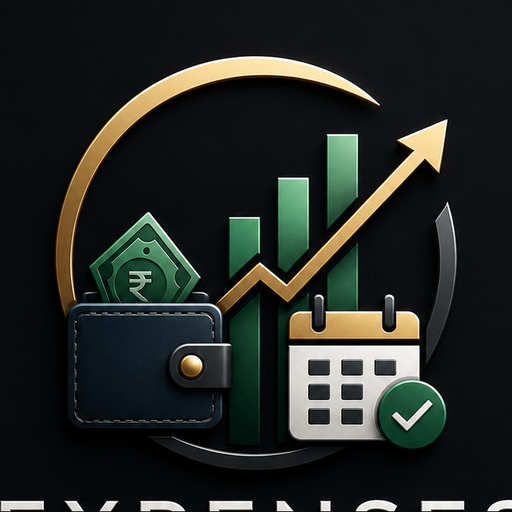
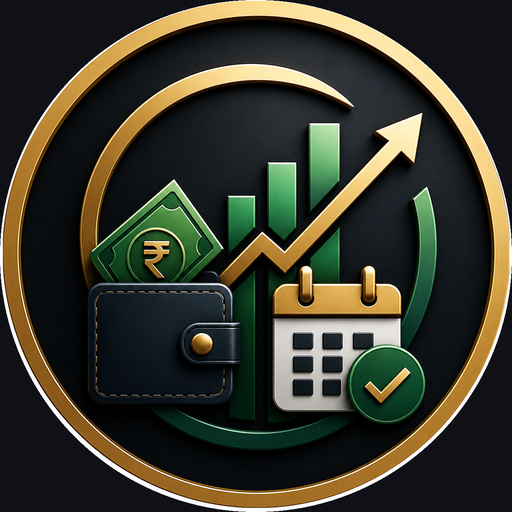
Add files via upload

diff --git a/index.html b/index.html
@@ -585,6 +585,8 @@ h1,h2,h3,.tab-label,.synebody,.card-title,.form-label,.fl-label{font-family:'DM 
       <input type="date" id="debt-due-date" class="date-inp" style="padding-left:14px;font-size:15px;"/>
       <div class="form-label">Annual Interest Rate % <span style="color:var(--muted);font-weight:400">(optional)</span></div>
       <input type="number" step="0.1" class="ti" id="debt-interest" placeholder="e.g. 12" style="width:100%;margin-bottom:13px"/>
+      <div class="form-label">Repay in Installments? <span style="color:var(--muted);font-weight:400">(optional)</span></div>
+      <input type="number" class="ti" id="debt-installments" placeholder="e.g. 12 (number of installments)" style="width:100%;margin-bottom:13px"/>
       <button class="save-btn" onclick="saveDebt()">Save Entry</button>
     </div>
     <div class="card">
@@ -2237,16 +2239,18 @@ function saveDebt(){
   const amt=parseFloat(document.getElementById('debt-amount').value);
   const dueDate=document.getElementById('debt-due-date').value;
   const interestRate=parseFloat(document.getElementById('debt-interest').value)||0;
+  const installments=parseInt(document.getElementById('debt-installments').value)||0;
   if(!name){showToast('Enter a name','#ffb300');return;}
   if(!amt||amt<=0){showToast('Enter a valid amount','#ffb300');return;}
   if(!selDebtType){showToast('Select type','#ffb300');return;}
   const debts=getDebts();
-  debts.push({name,amount:amt,type:selDebtType,ts:Date.now(),cleared:false,dueDate:dueDate||null,interestRate:interestRate||null});
+  debts.push({name,amount:amt,type:selDebtType,ts:Date.now(),cleared:false,dueDate:dueDate||null,interestRate:interestRate||null,installments:installments||null});
   saveDebts(debts);
   document.getElementById('debt-name').value='';
   document.getElementById('debt-amount').value='';
   document.getElementById('debt-due-date').value='';
   document.getElementById('debt-interest').value='';
+  document.getElementById('debt-installments').value='';
   selDebtType=null;
   document.getElementById('dtype-debt').classList.remove('sel');
   document.getElementById('dtype-profit').classList.remove('sel');
@@ -2311,6 +2315,14 @@ function renderDebtPage(){
     }
     // Repayment history
     const repayLog=(d.repayLog||[]).map(r=>`<div style="font-size:11px;color:var(--muted);margin-top:2px">↩ Returned ${fmt(r.amount)} on ${r.date}</div>`).join('');
+    // Installment plan progress
+    let installmentLabel='';
+    if(d.installments&&d.installments>1){
+      const paidCount=(d.repayLog||[]).length;
+      const perInstallment=d.amount/d.installments;
+      const doneCount=Math.min(paidCount,d.installments);
+      installmentLabel=`<div style="font-size:10px;color:var(--accent);margin-top:2px">📋 Installment ${doneCount} of ${d.installments} (${fmt(perInstallment)}/installment)</div>`;
+    }
     const repaidBadge=repaid>0&&!fullyCleared?`<span class="remaining-badge">Remaining: ${fmt(remaining)}</span>`:'';
     const partialControl=!fullyCleared?`<div class="repay-row">
       <input class="repay-inp" type="number" inputmode="decimal" placeholder="Amount returned" id="repay-inp-${oi}"/>
@@ -2322,6 +2334,7 @@ function renderDebtPage(){
         <div class="entry-cat">${d.name} ${repaidBadge}</div>
         <div class="entry-meta"><span class="debt-entry-badge ${badgeClass}">${label}</span> ${dueLabel}</div>
         ${interestLabel}
+        ${installmentLabel}
         ${repayLog}
         ${partialControl}
       </div>
@@ -2538,7 +2551,15 @@ function renderMembers(){
   const users=getUsers();
   const entries=Object.entries(users);
   const nonAdminCount=entries.filter(([u,p])=>!p.isAdmin).length;
-  summaryEl.textContent=`${entries.length} total account${entries.length===1?'':'s'} · ${nonAdminCount} member${nonAdminCount===1?'':'s'} (excl. admin)`;
+  let totalIncomeAll=0,totalExpenseAll=0;
+  entries.forEach(([u])=>{
+    try{
+      const d=JSON.parse(localStorage.getItem('exp_'+u+'_data')||'[]');
+      totalIncomeAll+=d.filter(e=>e.type==='income').reduce((s,e)=>s+e.amount,0);
+      totalExpenseAll+=d.filter(e=>e.type!=='income').reduce((s,e)=>s+e.amount,0);
+    }catch(e){}
+  });
+  summaryEl.innerHTML=`${entries.length} total account${entries.length===1?'':'s'} · ${nonAdminCount} member${nonAdminCount===1?'':'s'} (excl. admin)<br><span style="color:var(--green)">${fmt(totalIncomeAll)} income</span> · <span style="color:var(--red)">${fmt(totalExpenseAll)} expenses</span> combined across all accounts`;
   if(!entries.length){listEl.innerHTML='<div style="color:var(--muted);font-size:13px;padding:6px 0">No members yet.</div>';return;}
   const sorted=entries.sort((a,b)=>(b[1].createdAt||0)-(a[1].createdAt||0));
   listEl.innerHTML=sorted.map(([u,p])=>{

diff --git a/EMAILJS_SETUP.md b/EMAILJS_SETUP.md
@@ -15,44 +15,123 @@ Go to https://www.emailjs.com → Sign Up (free plan is fine).
 - Copy the **Service ID** (looks like `service_xxxxxxx`)
 
 ## 3. Create two email templates
-Dashboard → **Email Templates** → **Create New Template**, twice:
+Dashboard → **Email Templates** → **Create New Template**, twice.
+
+For each one, switch the body editor from **Design Editor** to **Code Editor** (a `</>` icon
+near the top of the editor) and paste the raw HTML below instead of typing plain text. This
+gives you a real branded email — logo, dark card, colored numbers — instead of plain text.
+The app now automatically sends a `{{logo_url}}` variable (an absolute link to `icon-512.png`
+on wherever you've deployed the app), so the logo will appear once you've deployed it (e.g. to
+GitHub Pages); it won't resolve while you're just opening `index.html` from your own computer.
 
 ### Template A — OTP (password reset)
-Subject: `Your ProjectVault OTP`
-Body (use these exact variable names so the app's data lines up):
-```
-Hi {{to_name}},
-
-Your one-time password to reset your ProjectVault account ({{username}}) is:
-
-{{otp_code}}
-
-If you didn't request this, you can ignore this email.
-
-— {{app_name}}
+Subject: `Your {{app_name}} OTP`
+Body (Code Editor — HTML):
+```html
+<div style="background:#0f1117;padding:32px 16px;font-family:Arial,Helvetica,sans-serif;">
+  <table role="presentation" width="100%" style="max-width:420px;margin:0 auto;border-collapse:collapse;">
+    <tr>
+      <td style="text-align:center;padding-bottom:20px;">
+        <img src="{{logo_url}}" width="56" height="56" alt="{{app_name}}" style="border-radius:14px;display:inline-block;">
+        <div style="font-family:Georgia,serif;font-size:22px;font-weight:bold;color:#f0f0f5;margin-top:10px;">
+          {{app_name}}
+        </div>
+      </td>
+    </tr>
+    <tr>
+      <td style="background:#1a1d27;border:1px solid rgba(255,255,255,.08);border-radius:20px;padding:28px 24px;">
+        <p style="color:#f0f0f5;font-size:15px;margin:0 0 14px;">Hi {{to_name}},</p>
+        <p style="color:#a7a9bd;font-size:14px;line-height:1.6;margin:0 0 18px;">
+          Your one-time password to reset your <b style="color:#f0f0f5;">{{app_name}}</b> account
+          (<b style="color:#f0f0f5;">{{username}}</b>) is:
+        </p>
+        <div style="background:#22263a;border:1px solid rgba(108,99,255,.4);border-radius:14px;padding:16px 8px;text-align:center;margin-bottom:18px;">
+          <span style="font-family:Georgia,serif;font-size:28px;font-weight:bold;letter-spacing:4px;color:#6c63ff;">{{otp_code}}</span>
+        </div>
+        <p style="color:#7a7d99;font-size:12px;line-height:1.6;margin:0;">
+          If you didn't request this, you can safely ignore this email.
+        </p>
+      </td>
+    </tr>
+    <tr>
+      <td style="text-align:center;padding-top:18px;">
+        <span style="color:#7a7d99;font-size:11px;">— {{app_name}}</span><br><span style="color:#4a4d66;font-size:10px;">Powered by {{brand_name}}</span>
+      </td>
+    </tr>
+  </table>
+</div>
 ```
 Copy this template's **Template ID** (e.g. `template_otp123`).
 
 ### Template B — Monthly Statement
-Subject: `Your ProjectVault statement — {{month}} {{year}}`
-Body:
-```
-Hi {{to_name}},
+Subject: `Your {{app_name}} statement — {{month}} {{year}}`
+Body (Code Editor — HTML):
+```html
+<div style="background:#0f1117;padding:32px 16px;font-family:Arial,Helvetica,sans-serif;">
+  <table role="presentation" width="100%" style="max-width:460px;margin:0 auto;border-collapse:collapse;">
+    <tr>
+      <td style="text-align:center;padding-bottom:20px;">
+        <img src="{{logo_url}}" width="56" height="56" alt="{{app_name}}" style="border-radius:14px;display:inline-block;">
+        <div style="font-family:Georgia,serif;font-size:22px;font-weight:bold;color:#f0f0f5;margin-top:10px;">
+          {{app_name}}
+        </div>
+      </td>
+    </tr>
+    <tr>
+      <td style="background:#1a1d27;border:1px solid rgba(255,255,255,.08);border-radius:20px;padding:28px 24px;">
+        <p style="color:#f0f0f5;font-size:15px;margin:0 0 4px;">Hi {{to_name}},</p>
+        <p style="color:#7a7d99;font-size:13px;margin:0 0 20px;">Here's your summary for {{month}} {{year}}.</p>
 
-Here's your ProjectVault summary for {{month}} {{year}}:
+        <table role="presentation" width="100%" style="border-collapse:collapse;table-layout:fixed;margin-bottom:18px;">
+          <tr>
+            <td width="50%" style="padding:0 4px 0 0;">
+              <div style="background:#22263a;border-radius:14px;padding:14px;">
+                <div style="color:#7a7d99;font-size:10px;text-transform:uppercase;letter-spacing:.5px;">Income</div>
+                <div style="color:#00d084;font-family:Georgia,serif;font-size:20px;font-weight:bold;">{{total_income}}</div>
+              </div>
+            </td>
+            <td width="50%" style="padding:0 0 0 4px;">
+              <div style="background:#22263a;border-radius:14px;padding:14px;">
+                <div style="color:#7a7d99;font-size:10px;text-transform:uppercase;letter-spacing:.5px;">Expenses</div>
+                <div style="color:#ff6584;font-family:Georgia,serif;font-size:20px;font-weight:bold;">{{total_expense}}</div>
+              </div>
+            </td>
+          </tr>
+        </table>
 
-Registered mobile: {{mobile}}
-Total income: {{total_income}}
-Total expenses: {{total_expense}}
-Average daily spend this month: {{avg_daily_spend}}
+        <p style="color:#a7a9bd;font-size:13px;line-height:1.9;margin:0 0 18px;">
+          Registered mobile: <b style="color:#f0f0f5;">{{mobile}}</b><br>
+          Average daily spend this month: <b style="color:#f0f0f5;">{{avg_daily_spend}}</b>
+        </p>
 
-Year-to-date ({{year}}):
-Total expenses: {{year_total_expense}}
-Average monthly spend: {{year_avg_monthly_spend}}
-
-— {{app_name}}
+        <div style="border-top:1px solid rgba(255,255,255,.08);padding-top:16px;">
+          <div style="color:#7a7d99;font-size:10px;text-transform:uppercase;letter-spacing:.5px;margin-bottom:8px;">Year-to-date ({{year}})</div>
+          <p style="color:#a7a9bd;font-size:13px;line-height:1.9;margin:0;">
+            Total expenses: <b style="color:#f0f0f5;">{{year_total_expense}}</b><br>
+            Average monthly spend: <b style="color:#f0f0f5;">{{year_avg_monthly_spend}}</b>
+          </p>
+        </div>
+      </td>
+    </tr>
+    <tr>
+      <td style="text-align:center;padding-top:18px;">
+        <span style="color:#7a7d99;font-size:11px;">— {{app_name}}</span><br><span style="color:#4a4d66;font-size:10px;">Powered by {{brand_name}}</span>
+      </td>
+    </tr>
+  </table>
+</div>
 ```
 Copy this template's **Template ID** (e.g. `template_statement456`).
+
+Both templates use the same `{{variable}}` names as before, plus two new ones — `{{logo_url}}`
+and `{{brand_name}}` (set to "ProjectVault") — which the app now sends automatically. No changes
+needed on the app side.
+
+**Fixed:** the statement template previously caused horizontal scrolling on narrow/mobile
+previews — the two income/expense boxes had both `width:50%` and their own padding on the same
+cell, which in HTML email rendering means the padding adds on top of that 50%, overflowing past
+100% combined. Fixed by moving the padding to an inner `<div>` instead of the table cell itself.
+If you already pasted the old version in, re-copy and re-paste the Template B code below.
 
 ## 4. Get your Public Key
 Dashboard → **Account** → **General** → copy the **Public Key**.

diff --git a/README.md b/README.md
@@ -1,21 +1,28 @@
-# ProjectVault — All-in-One Expense Tracker
+# Expenses Tracker — by ProjectVault
 
 A fast, offline-first Progressive Web App (PWA) for tracking expenses, income, debts, budgets,
 and recurring bills. No backend, no signup servers — everything runs in your browser and data
 stays on your device.
 
-![ProjectVault icon](icon-192.png)
+![Expenses Tracker icon](icon-192.png)
 
 ## Features
 - 💰 Track income & expenses by category, with visual breakdowns
 - 🧾 Debt tracker — money you owe and money owed to you, with partial repayments
 - 🎯 Monthly budget limits with progress tracking
-- 🔁 Recurring bill reminders
+- 🔁 Recurring bills **and recurring income** (e.g. salary), with reminders
 - 📧 Automatic monthly email statements (income, expenses, daily/monthly averages)
 - 🔑 Email-based OTP password recovery (find account by mobile number or email)
 - 📲 Installable as a native-feeling app on Android/iOS/desktop (PWA)
 - 🔒 Local biometric/device login support
-- 🌙 Dark, mobile-first UI
+- 🌙 Light & dark theme, mobile-first UI
+- 🎉 Animated celebrations for cleared debts, budget wins, and savings milestones
+
+## Branding
+"ProjectVault" is the umbrella brand (shown as "Powered by ProjectVault" on the login screen and
+in emails); **Expenses Tracker** is this specific app's name. Future apps under the same brand
+will each get their own name/logo while keeping the ProjectVault credit.
+
 
 ## Tech stack
 Plain HTML, CSS, and JavaScript — no framework, no build step. Data is stored in the browser's